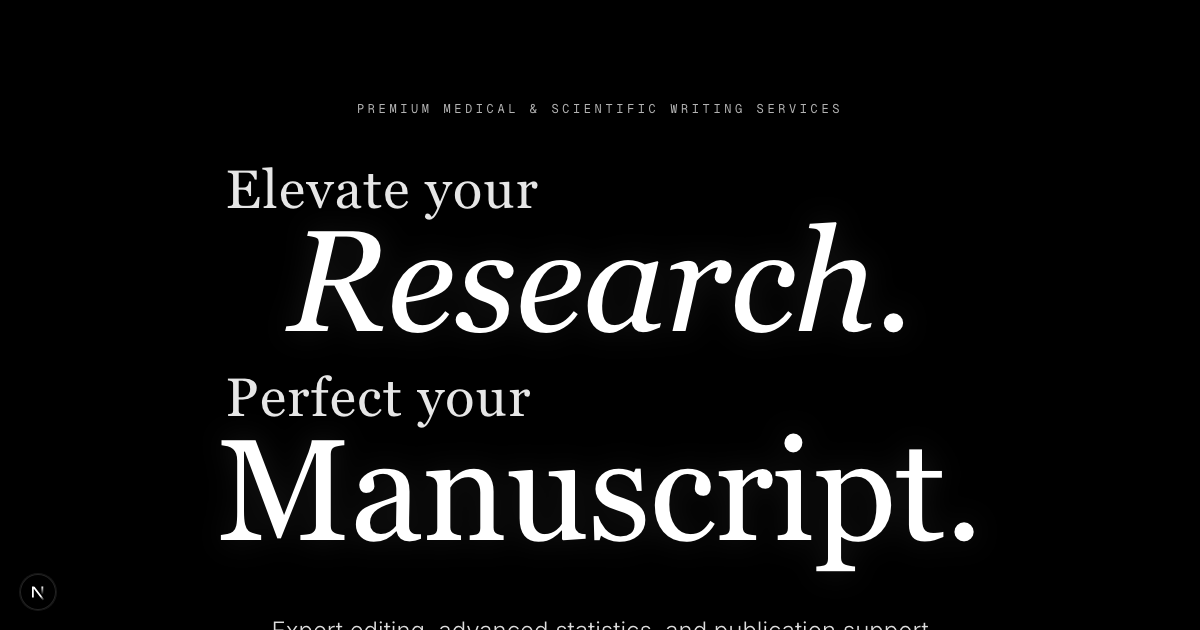
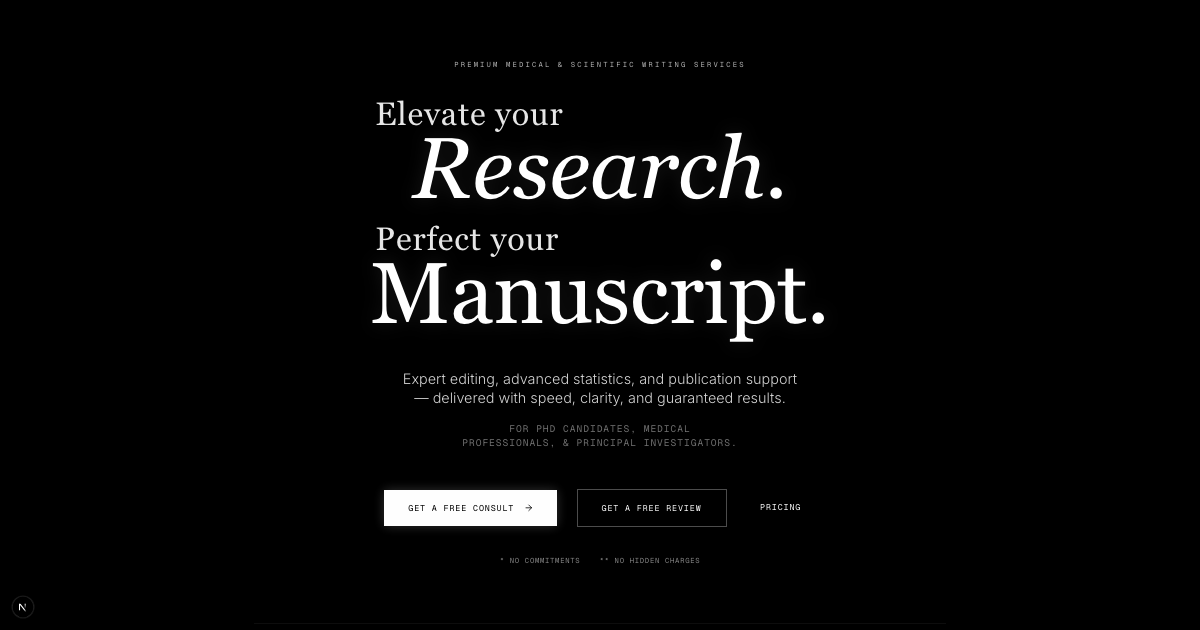
chore(assets): scale OG website snapshot to prevent text cut-off

diff --git a/generate_website_og.js b/generate_website_og.js
@@ -39,6 +39,11 @@ import path from 'path';
     /* Hide the scroll indicator */
     .absolute.bottom-12 { display: none !important; }
 
+    /* Scale the page down so it fits beautifully in the 1200x630 viewport */
+    body {
+      zoom: 0.6 !important; 
+    }
+
     /* Force opacity on Framer Motion elements just in case */
     [style*="opacity: 0"] {
         opacity: 1 !important;
